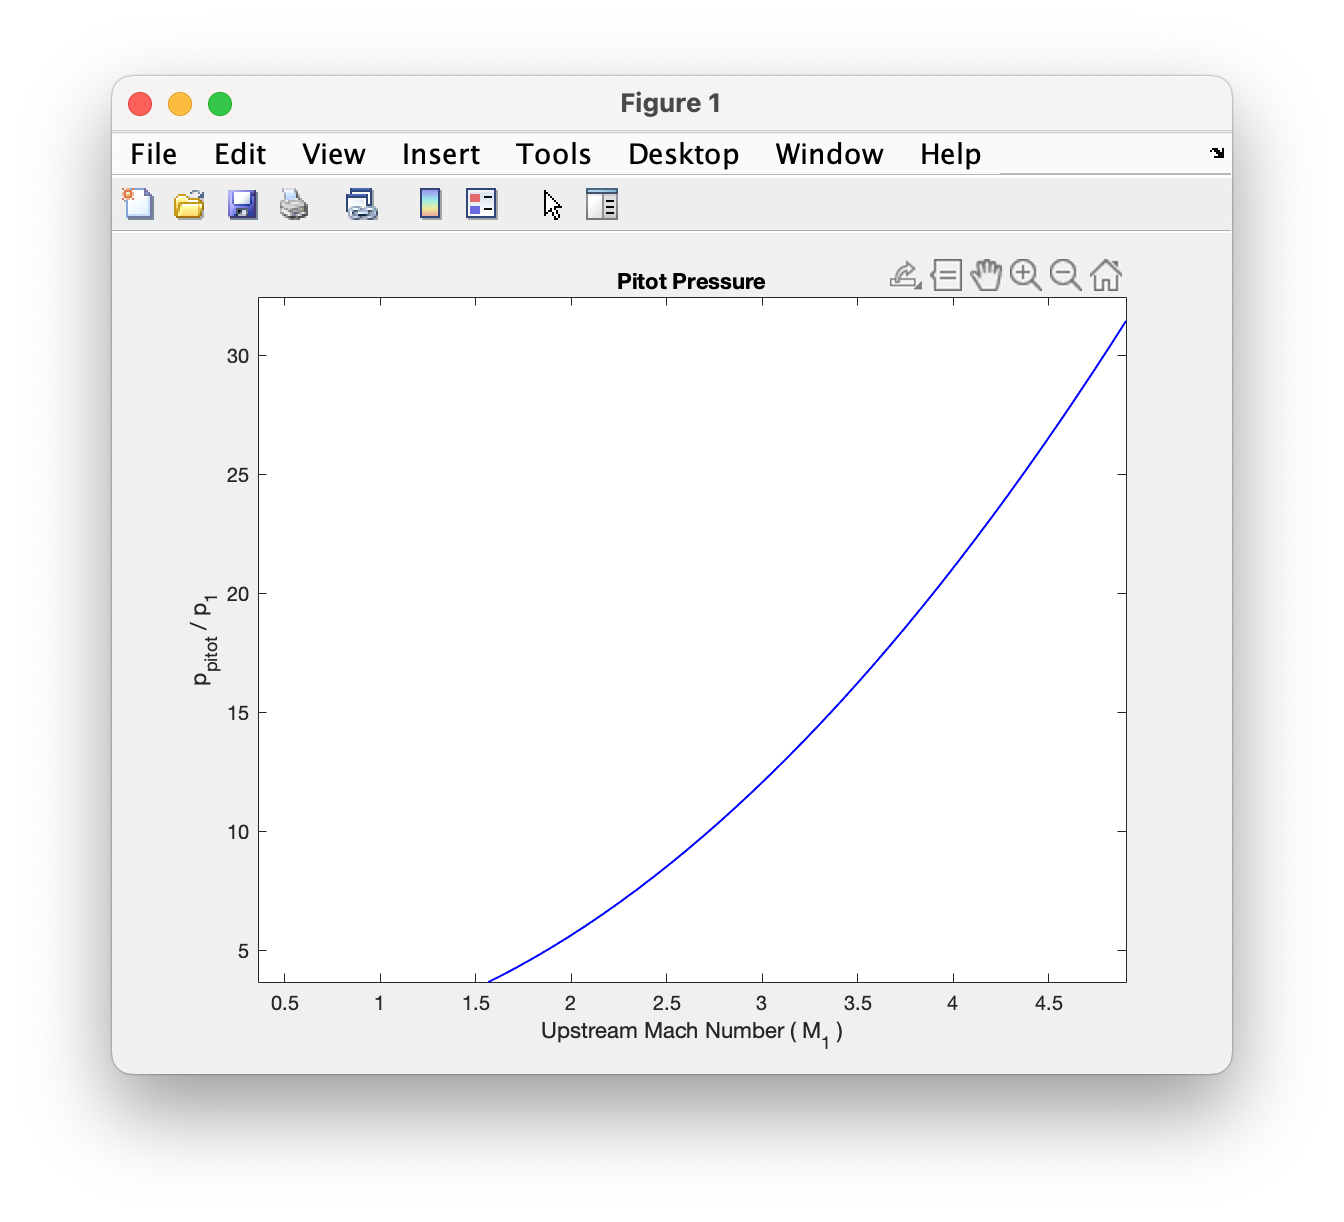
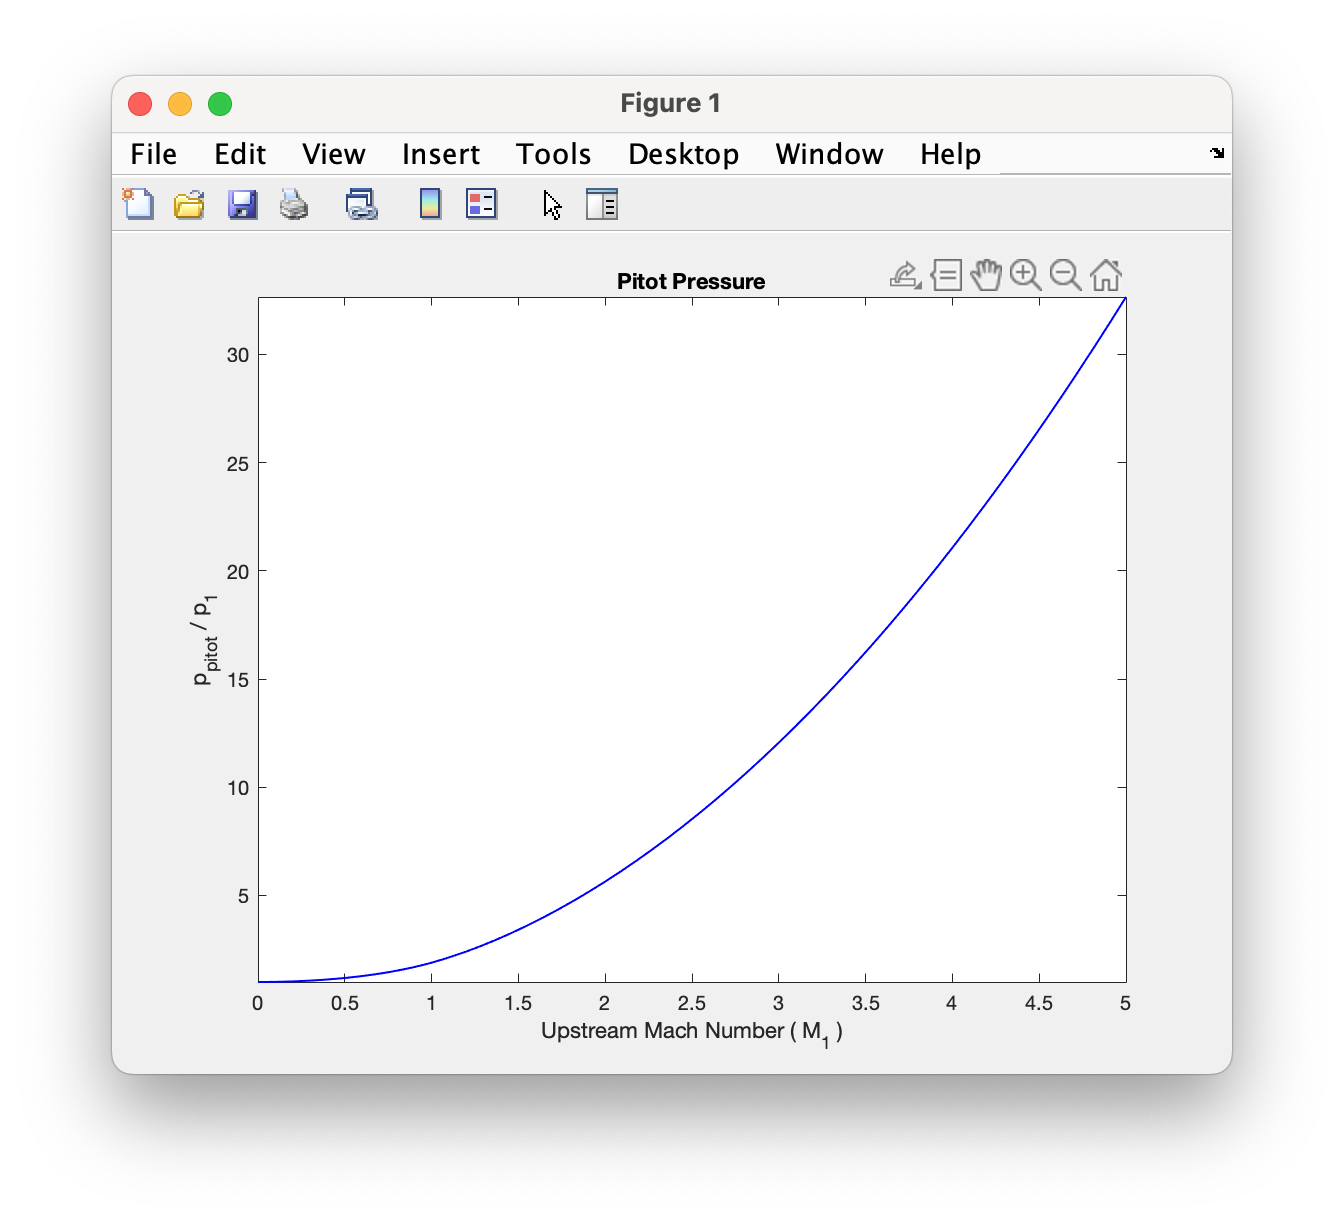
image additions for docs

diff --git a/1-D/source/dev.m b/1-D/source/dev.m
@@ -1,3 +1,4 @@
-shockless.entropy_plot(1.4,'ray');
+shockless.pitot_pressure(1.4,'plot',[0 5]);
+
 
 
